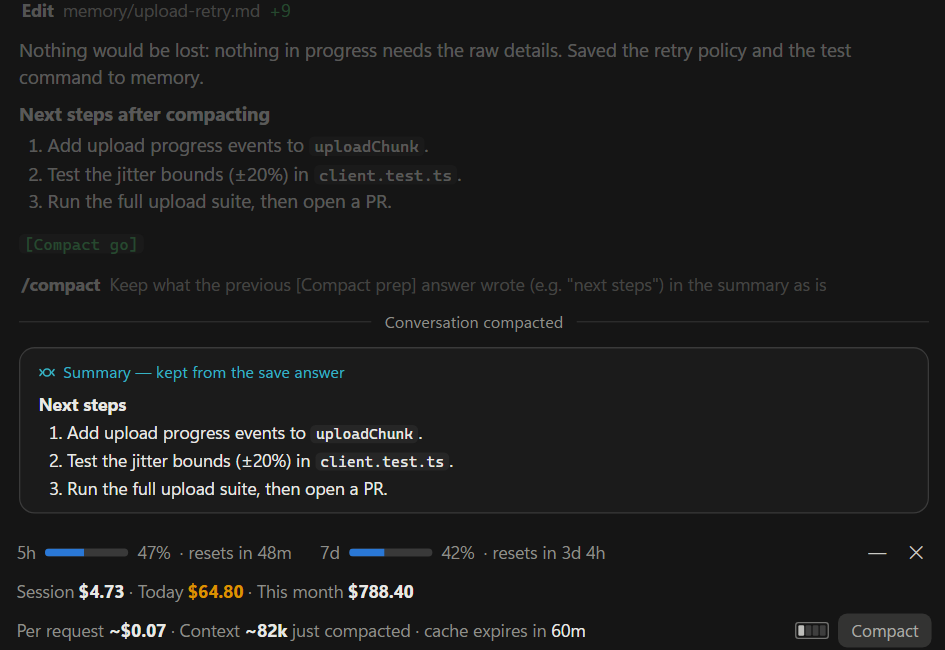
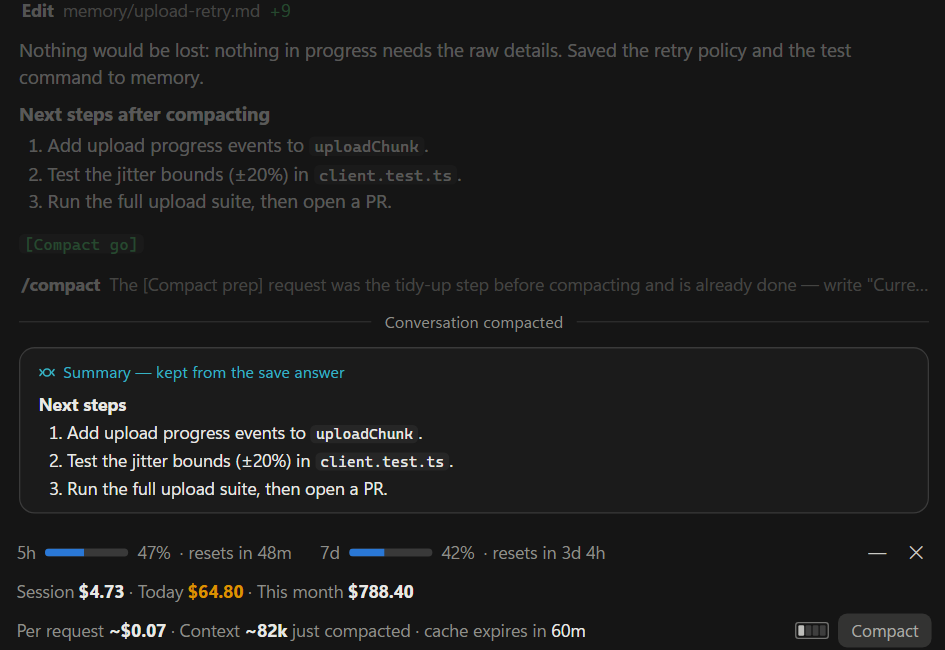
1.1.3 — 요약 지시 셋(이지 컴팩트 · 이지 오토: 저장 단계는 끝났다 · 기본 컴팩트와 쉬는 동안 컴팩트: 마지막 답은 끝났다) · 안내서 글 · 그림 summary · demo.gif

Changed region(s): [[0.1228, 0.4308, 0.982, 0.4615]]

diff --git a/plugin/hooks/tidy.ts b/plugin/hooks/tidy.ts
@@ -1,6 +1,6 @@
 import type { Settings } from '../types'
 import { L } from './i18n'
-import { compactText, tidyBody, tidyStyles } from './settings'
+import { compactText, tidyStyles } from './settings'
 
 export function kindDirect(): string {
   return L('기본 컴팩트', 'Plain compact')
@@ -63,30 +63,26 @@ export function tidyPrompt(body: readonly string[]): string {
   ].join('\n')
 }
 
-export function tidyScript(s: Settings): { text: string; isBody: boolean }[] {
-  const body = tidyBody(s)
-  return [
-    { text: L('[이지 컴팩트]', '[Easy Compact]'), isBody: false },
-    ...tidyPrompt(body)
-      .split('\n')
-      .map(text => ({ text, isBody: body.includes(text) })),
-    { text: L(`→ 답이 ${markGo()}으로 끝나면: /compact ${compactKeep(s)}`, `→ If the answer ends with ${markGo()}: /compact ${compactKeep(s)}`), isBody: false },
-    { text: '', isBody: false },
-    { text: L(`[기본 컴팩트] /compact ${directKeep(s)}`, `[Plain compact] /compact ${directKeep(s)}`), isBody: false },
-  ]
+function keepAfterTidy(tag: string): string {
+  return L(
+    `${tag} 요청은 컴팩트 전 정리 단계로 이미 끝났다 — 「지금 하던 일」 · 「다음 단계」는 그 앞에 하던 실제 작업으로 적을 것. 정리 답(이어서 할 일)이 보이면 그대로 남길 것. 준비 답 · ${markGo()}은 요약에 할 일로도 끝 줄로도 쓰지 말 것`,
+    `The ${tag} request was the tidy-up step before compacting and is already done — write "Current Work" and "Next Step" as the real work that came before it. If the tidy answer (next steps) is visible, keep it as is. Do not put the tidy answer or ${markGo()} in the summary, either as a task or as the last line`,
+  )
 }
 
 export function compactKeep(s?: Settings): string {
-  const fixed = L(
-    `직전 ${tidyTag()} 답에 적은 내용("이어서 할 일" 등)은 요약에 그대로 남길 것`,
-    `Keep what the previous ${tidyTag()} answer wrote (e.g. "next steps") in the summary as is`,
-  )
+  const fixed = keepAfterTidy(tidyTag())
   const extra = s ? compactText(s) : ''
   return extra ? `${fixed}. ${extra}` : fixed
 }
 
 export function directKeep(s?: Settings): string {
-  return s ? compactText(s) : L('진행 중 작업 · 결정 · 이어서 할 일은 요약에 남길 것', 'Keep ongoing work, decisions and next steps in the summary')
+  const fixed = L(
+    '마지막 사용자 메시지에 대한 답은 이미 끝났고 요약 뒤에 원문으로 남는다 — 그 답 쓰기를 「지금 하던 일」 · 「다음 단계」 · 남은 일로 적지 말 것',
+    'The answer to the last user message is already done and stays verbatim after the summary — do not put writing that answer in "Current Work", "Next Step" or pending tasks',
+  )
+  const extra = s ? compactText(s) : L('진행 중 작업 · 결정 · 이어서 할 일은 요약에 남길 것', 'Keep ongoing work, decisions and next steps in the summary')
+  return extra ? `${fixed}. ${extra}` : fixed
 }
 
 export function tidyVerdict(reason: string, answer: string): 'go' | 'hold' | 'stopped' | 'unmarked' {
@@ -131,10 +127,7 @@ export function autoContinuePrompt(): string {
 }
 
 export function autoCompactKeep(): string {
-  return L(
-    `직전 ${pick(AUTO_TAGS.save)} 답에 적은 내용("이어서 할 일" 등)은 요약에 그대로 남길 것. ${tidyStyles().default.compact}`,
-    `Keep what the previous ${pick(AUTO_TAGS.save)} answer wrote (e.g. "next steps") in the summary as is. ${tidyStyles().default.compact}`,
-  )
+  return `${keepAfterTidy(pick(AUTO_TAGS.save))}. ${tidyStyles().default.compact}`
 }
 
 export function kindAuto(): string {

diff --git a/docs/primer/ko.html b/docs/primer/ko.html
@@ -1054,8 +1054,8 @@ ol.lplist{list-style:none;margin:0;padding:0;display:flex;flex-direction:column;
       <div class="shots2"><figure class="shot"><img src="img/ko/settings.png" alt="크기별 비용 표와 판정, 컴팩트 구간" loading="lazy"><figcaption>화면 2. 크기별 값 표. 판정(★ 최적 · 좋음 · 보통 · 비추천)과 지금 크기</figcaption></figure><figure class="shot"><img src="img/ko/auto.png" alt="이지 오토를 켠 모습" loading="lazy"><figcaption>화면 3. 이지 오토. 정한 구간에서 알아서 컴팩트</figcaption></figure></div>
     </div>
     <div class="ecp" data-h="3" hidden>
-      <p class="ech"><b>습관 3 · 잃을까 봐 컴팩트도 새 세션도 미룬다</b><span>[이지 컴팩트]를 누르면 Claude 가 먼저 컴팩트로 잃을 만한 것을 살펴 아직 파일에 없는 결정 · 진행 · 다음 할 일을 메모리나 진행 메모(md)에 적습니다. 그다음 컴팩트가 대화를 요약합니다. 파일에 적은 것은 컴팩트 뒤에도 그대로 남고 요약에는 이어서 할 일이 남습니다.</span></p>
-      <div class="shots2"><figure class="shot"><img src="img/ko/confirm.png" alt="컴팩트할까요 카드" loading="lazy"><figcaption>화면 4. 컴팩트할까요. 질문마다 아끼는 값, 먼저 적어 둘 것</figcaption></figure><figure class="shot"><img src="img/ko/summary.png" alt="컴팩트 뒤 요약에 남은 이어서 할 일" loading="lazy"><figcaption>화면 5. 컴팩트 뒤. 요약에 이어서 할 일이 남음</figcaption></figure></div>
+      <p class="ech"><b>습관 3 · 잃을까 봐 컴팩트도 새 세션도 미룬다</b><span>[이지 컴팩트]를 누르면 Claude 가 먼저 컴팩트로 잃을 만한 것을 살펴 아직 파일에 없는 결정 · 진행 · 다음 할 일을 메모리나 진행 메모(md)에 적습니다. 그다음 컴팩트가 대화를 요약합니다. 파일에 적은 것은 컴팩트 뒤에도 그대로 남습니다. 이어서 할 일을 적은 답도 요약 바로 뒤에 글 그대로 남습니다.</span></p>
+      <div class="shots2"><figure class="shot"><img src="img/ko/confirm.png" alt="컴팩트할까요 카드" loading="lazy"><figcaption>화면 4. 컴팩트할까요. 질문마다 아끼는 값, 먼저 적어 둘 것</figcaption></figure><figure class="shot"><img src="img/ko/summary.png" alt="컴팩트 뒤 요약에 남은 이어서 할 일" loading="lazy"><figcaption>화면 5. 컴팩트 뒤. 저장 답의 이어서 할 일이 그대로 남음</figcaption></figure></div>
     </div>
     <div class="ecp" data-h="4" hidden>
       <p class="ech"><b>습관 4 · 캐시를 식힌다(오래 쉬기 · 도중에 모델 바꾸기)</b><span>바에 캐시 만료까지 남은 시간이 보입니다. 만료된 뒤에는 그냥 이어 가기와 컴팩트 가운데 어느 쪽이 싼지 값으로 알려 줍니다.</span></p>

diff --git a/docs/primer/index.html b/docs/primer/index.html
@@ -1054,8 +1054,8 @@ Open question: how many retries at most?</pre>
       <div class="shots2"><figure class="shot"><img src="../img/settings.png" alt="Cost by size table with verdicts, and the compact range" loading="lazy"><figcaption>Screen 2. The Cost by size table: a verdict for each size (★ Best · good · fair · not advised) and your current size</figcaption></figure><figure class="shot"><img src="../img/auto.png" alt="Easy Auto turned on" loading="lazy"><figcaption>Screen 3. Easy Auto: compacts by itself in the range you set</figcaption></figure></div>
     </div>
     <div class="ecp" data-h="3" hidden>
-      <p class="ech"><b>Habit 3 · Putting off compacting and new sessions for fear of losing your place</b><span>Press [Easy Compact] and Claude first checks what the compact might lose. It then writes the decisions, progress and next steps that are not yet in files to memory or a progress note (md). Then the compact summarizes the conversation. What was written to files stays after the compact, and the summary keeps the next steps.</span></p>
-      <div class="shots2"><figure class="shot"><img src="../img/confirm.png" alt="“Compact now?” card" loading="lazy"><figcaption>Screen 4. “Compact now?”: the savings per question and what gets written down first</figcaption></figure><figure class="shot"><img src="../img/summary.png" alt="Next steps kept in the summary after a compact" loading="lazy"><figcaption>Screen 5. After the compact: the next steps are kept in the summary</figcaption></figure></div>
+      <p class="ech"><b>Habit 3 · Putting off compacting and new sessions for fear of losing your place</b><span>Press [Easy Compact] and Claude first checks what the compact might lose. It then writes the decisions, progress and next steps that are not yet in files to memory or a progress note (md). Then the compact summarizes the conversation. What was written to files stays after the compact, and the answer listing the next steps stays word for word right after the summary.</span></p>
+      <div class="shots2"><figure class="shot"><img src="../img/confirm.png" alt="“Compact now?” card" loading="lazy"><figcaption>Screen 4. “Compact now?”: the savings per question and what gets written down first</figcaption></figure><figure class="shot"><img src="../img/summary.png" alt="Next steps kept in the summary after a compact" loading="lazy"><figcaption>Screen 5. After the compact: the next steps from the save answer stay as written</figcaption></figure></div>
     </div>
     <div class="ecp" data-h="4" hidden>
       <p class="ech"><b>Habit 4 · Letting the cache go cold (long breaks, switching models midway)</b><span>The bar shows the time until the cache expires. After it expires, Easy Compact tells you, in dollars, whether simply continuing or compacting is cheaper.</span></p>

diff --git a/plugin/hooks/register.tsx b/plugin/hooks/register.tsx
@@ -1538,6 +1538,7 @@ async function followModel($: EngineInterface): Promise<void> {
 let measureAfterCompact = false
 let missedCompact: { trigger: string; result: CompactResultLike } | null = null
 let hookCompact: { isRecorded: boolean } | null = null
+let mainTurn: string | null = null
 let engineHadTokens = false
 let suspectCompact: { before: number; atMs: number; since: number; checks: number } | null = null
 const BOUNDARY_CHECKS = 3
@@ -2947,6 +2948,7 @@ export const register: Register = on => {
   on('turn.complete', async ($, e, next) => {
     await ensureLang($)
     const isMain = e.agentId === undefined
+    if (isMain) mainTurn = null
     if (!isMain) await markAgentsDone($, id => id === e.agentId)
     if (isMain) {
       await refreshTtl($)
@@ -2999,6 +3001,7 @@ export const register: Register = on => {
     const submitAt = await $.clock.now()
     if (e.agentId === undefined) await autoEvent($, { type: 'turnStart', turnId: e.turnId, kind: autoTurnOf(e.text.replace(PLUGIN_SENT, '')) }).catch(() => {})
     if (e.agentId === undefined) lastStepAnswer = ''
+    if (e.agentId === undefined) mainTurn = e.turnId
     if (e.agentId === undefined) liveCells = { turnId: e.turnId, tools: [], tails: [] }
     const sent = e.agentId === undefined && pendingSubmit && submitAt - pendingSubmit.atMs < 60_000 ? pendingSubmit : null
     if (e.agentId === undefined) pendingSubmit = null
@@ -3165,7 +3168,8 @@ export const register: Register = on => {
     const isMine = e.agentId === undefined && e.trigger !== 'precompute'
     if (isMine && (await read($, compactPhase)) !== 'compacting') await startCompacting($, compactKindOf(e.trigger))
     try {
-      const result = await next(e)
+      const isIdlePre = e.agentId === undefined && e.trigger === 'precompute' && !e.instructions && mainTurn === null
+      const result = await next(isIdlePre ? { ...e, instructions: directKeep(await currentSettings($)) } : e)
       if (e.agentId === undefined && e.trigger === 'precompute' && !result.skip && result.usage) {
         const pre = costOf(result.usage, (await read($, usage))?.model ?? (await $.session.model()), undefined, null, engineNow)
         if (pre) {

diff --git a/plugin/hooks/ui-settings.tsx b/plugin/hooks/ui-settings.tsx
@@ -3,7 +3,6 @@ import { approxUsd, cacheWarnFor, fmtTokens, fmtUsd, fmtUsdRange, krwRateDate, k
 import { isSlim, LAYOUTS, layoutName, layoutUse, PARTS, levelName, partName, partUse, setPart, BAND_MODES, BAND_PARTS, bandModeName, bandAutoUse, bandStateText, bandModeUse, bandPartName, bandShowOf, chooseScreen, editView, foldName, fmtUsd0, MONEY_COLOR_STEPS, nudgeSessionColor, paneAutoUse, paneSyncUse, infoName, infoUse, resetCustom, SCREEN_PRESETS, screenName, screenUse, screenStateText, setBandPart, setFolded, setLimits, viewOf, chooseTidy, customName, customUse, DEFAULT_SETTINGS, nudgeCache, CACHE_STEPS, CACHE_STEPS_5M, parseTokens, RANGE_BANDS, RANGE_ROWS, setCompactAt, thresholdsOf, TIDY_IDS, tidyStyles, tidySteps, usesCustom, BAND_ORDER_DEFAULT, moveEarlier, normalizeOrder, MONEY_ORDERS, moneyOf, withMoney, compactText, tidyBody, rangeBands, rangeRows, compactMax, contextWindowNow, autoCompactAt, revealWhere, autoBands, autoRangeDefault, setAutoRange } from './settings'
 import type { MoneyColorKey } from './settings'
 import { COMPACT_MIN, penaltyAt, rangeThresholdsFor, thresholdsFor, WARN_RATIO } from './optimal'
-import { tidyScript } from './tidy'
 import { L } from './i18n'
 import type { Lang } from './i18n'
 import { ACCENT, STAR_COLOR, SEG_ON_EDGE, hoverTip, tipRow, PEN_WARN_PCT, PEN_BAD_PCT, penColorOf, isNotRecommended, penVerdict, phaseLook, pickButton, pulseDot, CARD, CARD_INSET, decoIcon, LIVE_HEX, nameColW, isStackedFor, lockedSeg, section, segButton, segGroup, rowLine, appSection, settingRow, onOffControl, onOffW, buttonW, selectW, choiceControl, choiceW, plainCard, gaugeEl } from './ui-common'

diff --git a/plugin/README.md b/plugin/README.md
@@ -45,6 +45,7 @@ easy-compact is a Claude Code mod (`modules` in `hooks/hooks.json`), so it runs 
 - **Exchange rate, only when you show amounts in won** (Settings → General → Currency; the default is dollars): a plain GET to `https://api.frankfurter.app/latest?from=USD&to=KRW` through Claude Code's `$.http.fetch`, at most once a day — when today's rate hasn't been fetched yet (an hour later if a try fails). It returns the European Central Bank's USD→KRW reference rate (about 71 bytes). The request carries nothing of yours: no session data, no costs, no credentials (no `auth`), only an `accept: application/json` header. With dollars it makes no request. The diagnostics card's **Open an issue** is a plain link that opens this repository's new-issue page in your browser; nothing is attached to it.
 - **Easy Compact** sends one message to Claude in your session, as part of your normal conversation. The message asks Claude to check what compacting would lose, to save decisions, progress and next steps that aren't in files yet (memory, work notes), and to reply with what to do next. It includes the message you picked in the compact popup (one of the presets, or your own text). Nothing else goes into it: no text from your conversation or files, and no costs. The text for "after /compact" is added to the `/compact` command as instructions for the summary.
 - **Easy Auto**, only in a session where you turned it on, sends two kinds of messages to Claude in that session, as part of your normal conversation: `[Easy Auto · summary]` followed by the same save message as Easy Compact's Normal preset (with the range it passed — nothing from your conversation or files, no costs), and, only after it stopped a long task and compacted, `[Easy Auto · continue] Compacting is done. Please continue what you were doing.`
+- **Idle compaction** is Claude Code's own: when a long session sits idle, Claude Code writes the compaction summary ahead of time. easy-compact adds one line to that summary's instructions — the answer to your last message is already done and stays word for word after the summary, so the summary should not list writing it as the next step — followed by your "after /compact" text. **Plain compact** sends the same text with `/compact`. Nothing from your conversation or files goes into it, and no costs.
 
 ## What it writes
 
@@ -55,9 +56,9 @@ easy-compact is a Claude Code mod (`modules` in `hooks/hooks.json`), so it runs 
 
 ## What its hooks do
 
-The hooks watch and draw. Apart from Easy Auto stopping a turn (above), they never change Claude's permissions, your prompts, tool calls or tool results.
+The hooks watch and draw. Apart from Easy Auto stopping a turn and the line added to Claude Code's idle-compaction summary (both above), they never change Claude's permissions, your prompts, tool calls or tool results.
 
-- `session.start`, `turn.start`, `turn.step`, `turn.complete`, `session.measure` and `session.compact`: read token counts and timings to keep the costs and the context size up to date. With Easy Auto on, `turn.step` is where it sees a long task pass the range and stops the turn.
+- `session.start`, `turn.start`, `turn.step`, `turn.complete`, `session.measure` and `session.compact`: read token counts and timings to keep the costs and the context size up to date. With Easy Auto on, `turn.step` is where it sees a long task pass the range and stops the turn. When Claude Code writes a compaction summary ahead of time while the session is idle (no turn running), `session.compact` adds the line described under *What it sends* to that summary's instructions; other compactions pass through unchanged.
 - `prompt.submit`: notes where a prompt came from (you, another session or a notification — so Easy Auto waits for you), and its text and number of images, to name the question. Passed on unchanged.
 - `prompt.suggest`: notes that Claude Code made its own suggestion request, so that cost is labelled. Passed on unchanged.
 - `tool.call`: notes the id of each tool call in the main conversation (the id only, not its input or result), so that hovering a question's cost chip can mark that question's tool rows too. Passed on unchanged.

diff --git a/README.ko.md b/README.ko.md
@@ -10,7 +10,7 @@
 </p>
 
 <p align="center">
-  <img src="https://img.shields.io/badge/version-1.1.2-4c9be8" alt="버전 1.1.2">
+  <img src="https://img.shields.io/badge/version-1.1.3-4c9be8" alt="버전 1.1.3">
   <img src="https://img.shields.io/badge/Claude_Code-plugin-D97757" alt="Claude Code 플러그인">
   <img src="https://img.shields.io/badge/requires-Claude_Code_2.1.295%2B-4c9be8" alt="Claude Code 2.1.295 이상 필요">
   <img src="https://img.shields.io/badge/license-MIT-green" alt="MIT 라이선스">
@@ -19,7 +19,7 @@
 <p align="center">
   <a href="README.md">English</a> · <b>한국어</b>
   &nbsp;|&nbsp;
-  <a href="#필요한-것">필요한 것</a> · <a href="#설치">설치</a> · <a href="#업데이트-받기">업데이트 받기</a> · <a href="#112-에서-바뀐-것">바뀐 것</a> · <a href="#기능">기능</a> · <a href="#숨기기--접기--다시-켜기">숨기기 · 다시 켜기</a> · <a href="#바가-안-보이면">바가 안 보이면</a> · <a href="#문제가-생기면--제보">제보</a>
+  <a href="#필요한-것">필요한 것</a> · <a href="#설치">설치</a> · <a href="#업데이트-받기">업데이트 받기</a> · <a href="#113-에서-바뀐-것">바뀐 것</a> · <a href="#기능">기능</a> · <a href="#숨기기--접기--다시-켜기">숨기기 · 다시 켜기</a> · <a href="#바가-안-보이면">바가 안 보이면</a> · <a href="#문제가-생기면--제보">제보</a>
 </p>
 
 <p align="center">
@@ -112,6 +112,14 @@ claude plugin uninstall easy-compact@easy-compact
 `~/.claude` 에 clone 하거나 `settings.json` 을 고친 것이 없어 이것으로 끝입니다. 잠깐 쉬고 싶을 뿐이면 지우는 대신 [바를 끄세요](#숨기기--접기--다시-켜기).
 
 </details>
+
+## 1.1.3 에서 바뀐 것
+
+컴팩트 요약이 실제 작업을 적습니다. easy-compact 가 보내는 요약 요청마다 이미 끝난 것을 먼저 알립니다:
+
+- **이지 컴팩트 · 이지 오토** — 저장 단계는 끝났으니 「지금 하던 일」 · 「다음 단계」는 그 앞의 실제 작업입니다. 저장 답은 요약 바로 뒤에 글 그대로 남습니다.
+- **기본 컴팩트** — 마지막 메시지의 답은 끝났으니 요약이 「그 답 쓰기」를 다음 단계로 적지 않습니다(실제 대화 셋에서 9번 중 9번 → 1번).
+- **쉬는 동안 컴팩트** — Claude Code(2.1.290 부터)가 1시간쯤 쉰 세션의 요약을 미리 쓸 때도 기본 컴팩트와 같은 한 줄을 붙입니다.
 
 ## 1.1.2 에서 바뀐 것
 

diff --git a/README.md b/README.md
@@ -10,7 +10,7 @@
 </p>
 
 <p align="center">
-  <img src="https://img.shields.io/badge/version-1.1.2-4c9be8" alt="Version 1.1.2">
+  <img src="https://img.shields.io/badge/version-1.1.3-4c9be8" alt="Version 1.1.3">
   <img src="https://img.shields.io/badge/Claude_Code-plugin-D97757" alt="Claude Code plugin">
   <img src="https://img.shields.io/badge/requires-Claude_Code_2.1.295%2B-4c9be8" alt="Requires Claude Code 2.1.295 or later">
   <img src="https://img.shields.io/badge/license-MIT-green" alt="MIT license">
@@ -19,7 +19,7 @@
 <p align="center">
   <b>English</b> · <a href="README.ko.md">한국어</a>
   &nbsp;|&nbsp;
-  <a href="#requirements">Requirements</a> · <a href="#install">Install</a> · <a href="#update">Update</a> · <a href="#whats-new-in-112">What's new</a> · <a href="#features">Features</a> · <a href="#hide-fold-bring-it-back">Hide · bring back</a> · <a href="#bar-not-showing">Bar not showing?</a> · <a href="#something-wrong--report-it">Report a problem</a>
+  <a href="#requirements">Requirements</a> · <a href="#install">Install</a> · <a href="#update">Update</a> · <a href="#whats-new-in-113">What's new</a> · <a href="#features">Features</a> · <a href="#hide-fold-bring-it-back">Hide · bring back</a> · <a href="#bar-not-showing">Bar not showing?</a> · <a href="#something-wrong--report-it">Report a problem</a>
 </p>
 
 <p align="center">
@@ -112,6 +112,14 @@ claude plugin uninstall easy-compact@easy-compact
 No cloning into `~/.claude` and no `settings.json` edits are involved. Just want a break? [Turn the bar off](#hide-fold-bring-it-back) instead.
 
 </details>
+
+## What's new in 1.1.3
+
+Compact summaries stay on the real work. Every summary request easy-compact makes now says what's already done:
+
+- **Easy Compact · Easy Auto** — the save step is done, so *Current Work* and *Next Step* are the real work before it. The save answer itself stays word for word right after the summary.
+- **Plain compact** — the answer to your last message is done, so the summary no longer makes "write that answer" the next step (9 of 9 → 1 of 9 on three real conversations).
+- **Idle compaction** — when Claude Code (2.1.290 or later) writes the summary ahead of time for a session idle about an hour, it gets the same line as Plain compact.
 
 ## What's new in 1.1.2
 

diff --git a/CHANGELOG.md b/CHANGELOG.md
@@ -4,6 +4,13 @@ All notable changes to easy-compact. Versions follow [Semantic Versioning](https
 
 **Update:** send Claude `Update this plugin: easy-compact (claude plugin marketplace update easy-compact, then claude plugin update easy-compact@easy-compact)`, or run those two lines in a shell, then restart Claude — see [Update](README.md#update).
 
+## [1.1.3] — 2026-10-28
+
+### Fixed
+- **Easy Compact and Easy Auto summaries listed the save step as unfinished** — Claude Code keeps the save answer word for word right after the summary, but writes the summary without seeing it, and the old `/compact` text asked the summary to keep "what the previous [Compact prep] answer wrote". The text now says the save step is already done: *Current Work* and *Next Step* are the real work before it, and the save answer and `[Compact go]` don't go in as a task. Your "after /compact" text follows as before.
+- **Plain compact summaries said the last answer was still to write** — the summary request now starts with one fixed line: the answer to your last message is already done and stays word for word after the summary. On three real conversations, summaries that made "write that answer" the next step went from 9 of 9 to 1 of 9, and the next steps were kept as before.
+- **Idle compaction went without instructions** — Claude Code 2.1.290 or later writes the summary ahead of time when a long session sits idle for about an hour. easy-compact now adds the same line as Plain compact, only when no turn is running. Without it, a summary listed an answer already written as the next step.
+
 ## [1.1.2] — 2026-10-27
 
 ### Fixed

diff --git a/plugin/CHANGELOG.md b/plugin/CHANGELOG.md
@@ -4,6 +4,13 @@ All notable changes to easy-compact. Versions follow [Semantic Versioning](https
 
 **Update:** send Claude `Update this plugin: easy-compact (claude plugin marketplace update easy-compact, then claude plugin update easy-compact@easy-compact)`, or run those two lines in a shell, then restart Claude — see [Update](README.md#update).
 
+## [1.1.3] — 2026-10-28
+
+### Fixed
+- **Easy Compact and Easy Auto summaries listed the save step as unfinished** — Claude Code keeps the save answer word for word right after the summary, but writes the summary without seeing it, and the old `/compact` text asked the summary to keep "what the previous [Compact prep] answer wrote". The text now says the save step is already done: *Current Work* and *Next Step* are the real work before it, and the save answer and `[Compact go]` don't go in as a task. Your "after /compact" text follows as before.
+- **Plain compact summaries said the last answer was still to write** — the summary request now starts with one fixed line: the answer to your last message is already done and stays word for word after the summary. On three real conversations, summaries that made "write that answer" the next step went from 9 of 9 to 1 of 9, and the next steps were kept as before.
+- **Idle compaction went without instructions** — Claude Code 2.1.290 or later writes the summary ahead of time when a long session sits idle for about an hour. easy-compact now adds the same line as Plain compact, only when no turn is running. Without it, a summary listed an answer already written as the next step.
+
 ## [1.1.2] — 2026-10-27
 
 ### Fixed
